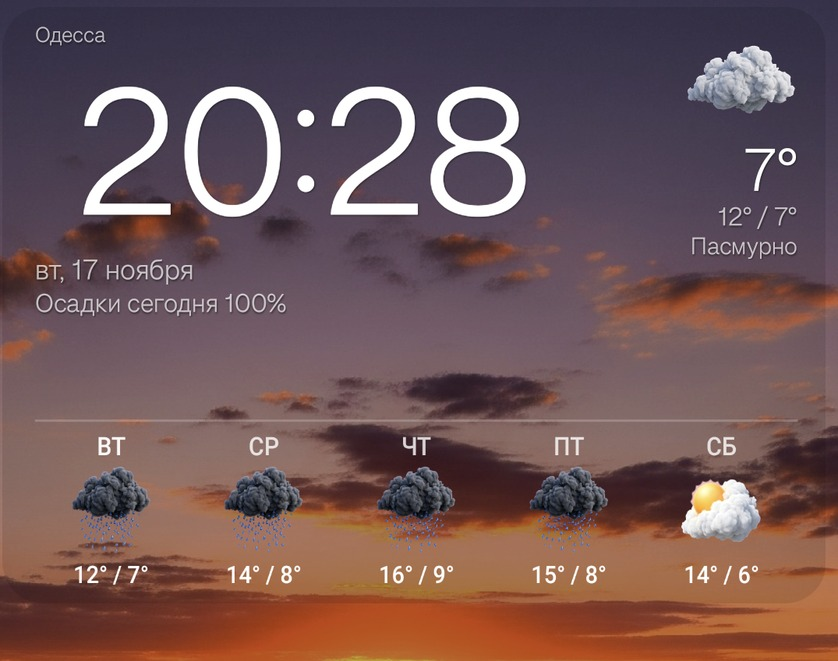
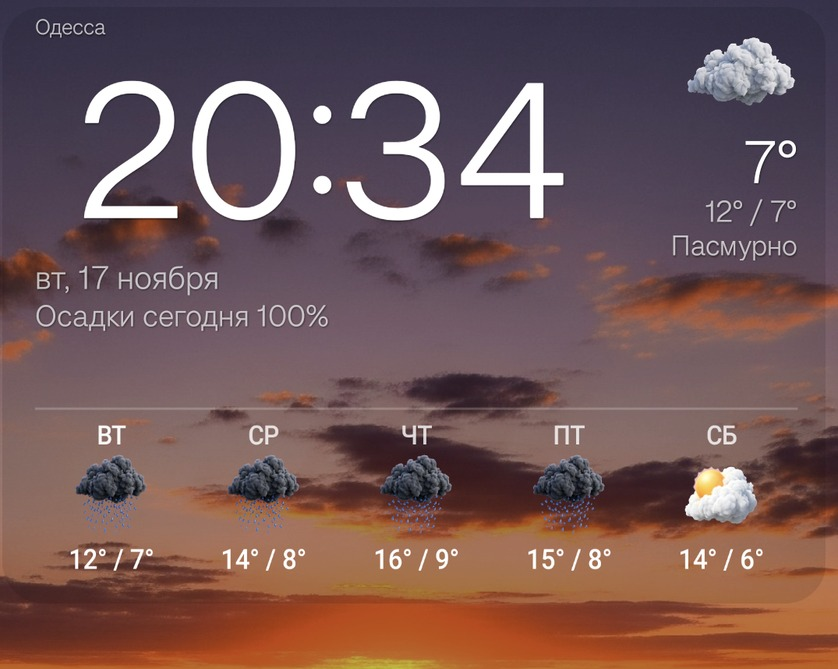
2.0: 4x3 — время 90sp, дата/осадки/мин-макс/описание и температуры прогноза крупнее

diff --git a/app/src/main/java/com/bratik/clockweather/widgets/WidgetRender.kt b/app/src/main/java/com/bratik/clockweather/widgets/WidgetRender.kt
@@ -159,7 +159,7 @@ object WidgetRender {
             0
         }
         val widthPx = ((if (widthDp in 120..1200) widthDp else 320) * density).toInt()
-        val heightPx = (78 * density).toInt()
+        val heightPx = (84 * density).toInt()
         val bmp = ForecastStrip.render(context, snapshot, fahrenheit, widthPx, heightPx)
         if (bmp != null) {
             rv.setImageViewBitmap(R.id.forecast, bmp)

diff --git a/app/src/main/java/com/bratik/clockweather/widgets/ForecastStrip.kt b/app/src/main/java/com/bratik/clockweather/widgets/ForecastStrip.kt
@@ -25,9 +25,9 @@ object ForecastStrip {
 
     private const val COLUMNS = 5
 
-    private const val DAY_TEXT_SP = 12f
-    private const val RANGE_TEXT_SP = 11.5f
-    private const val ICON_DP = 46f
+    private const val DAY_TEXT_SP = 12.5f
+    private const val RANGE_TEXT_SP = 13f
+    private const val ICON_DP = 42f
 
     fun render(
         context: Context,
